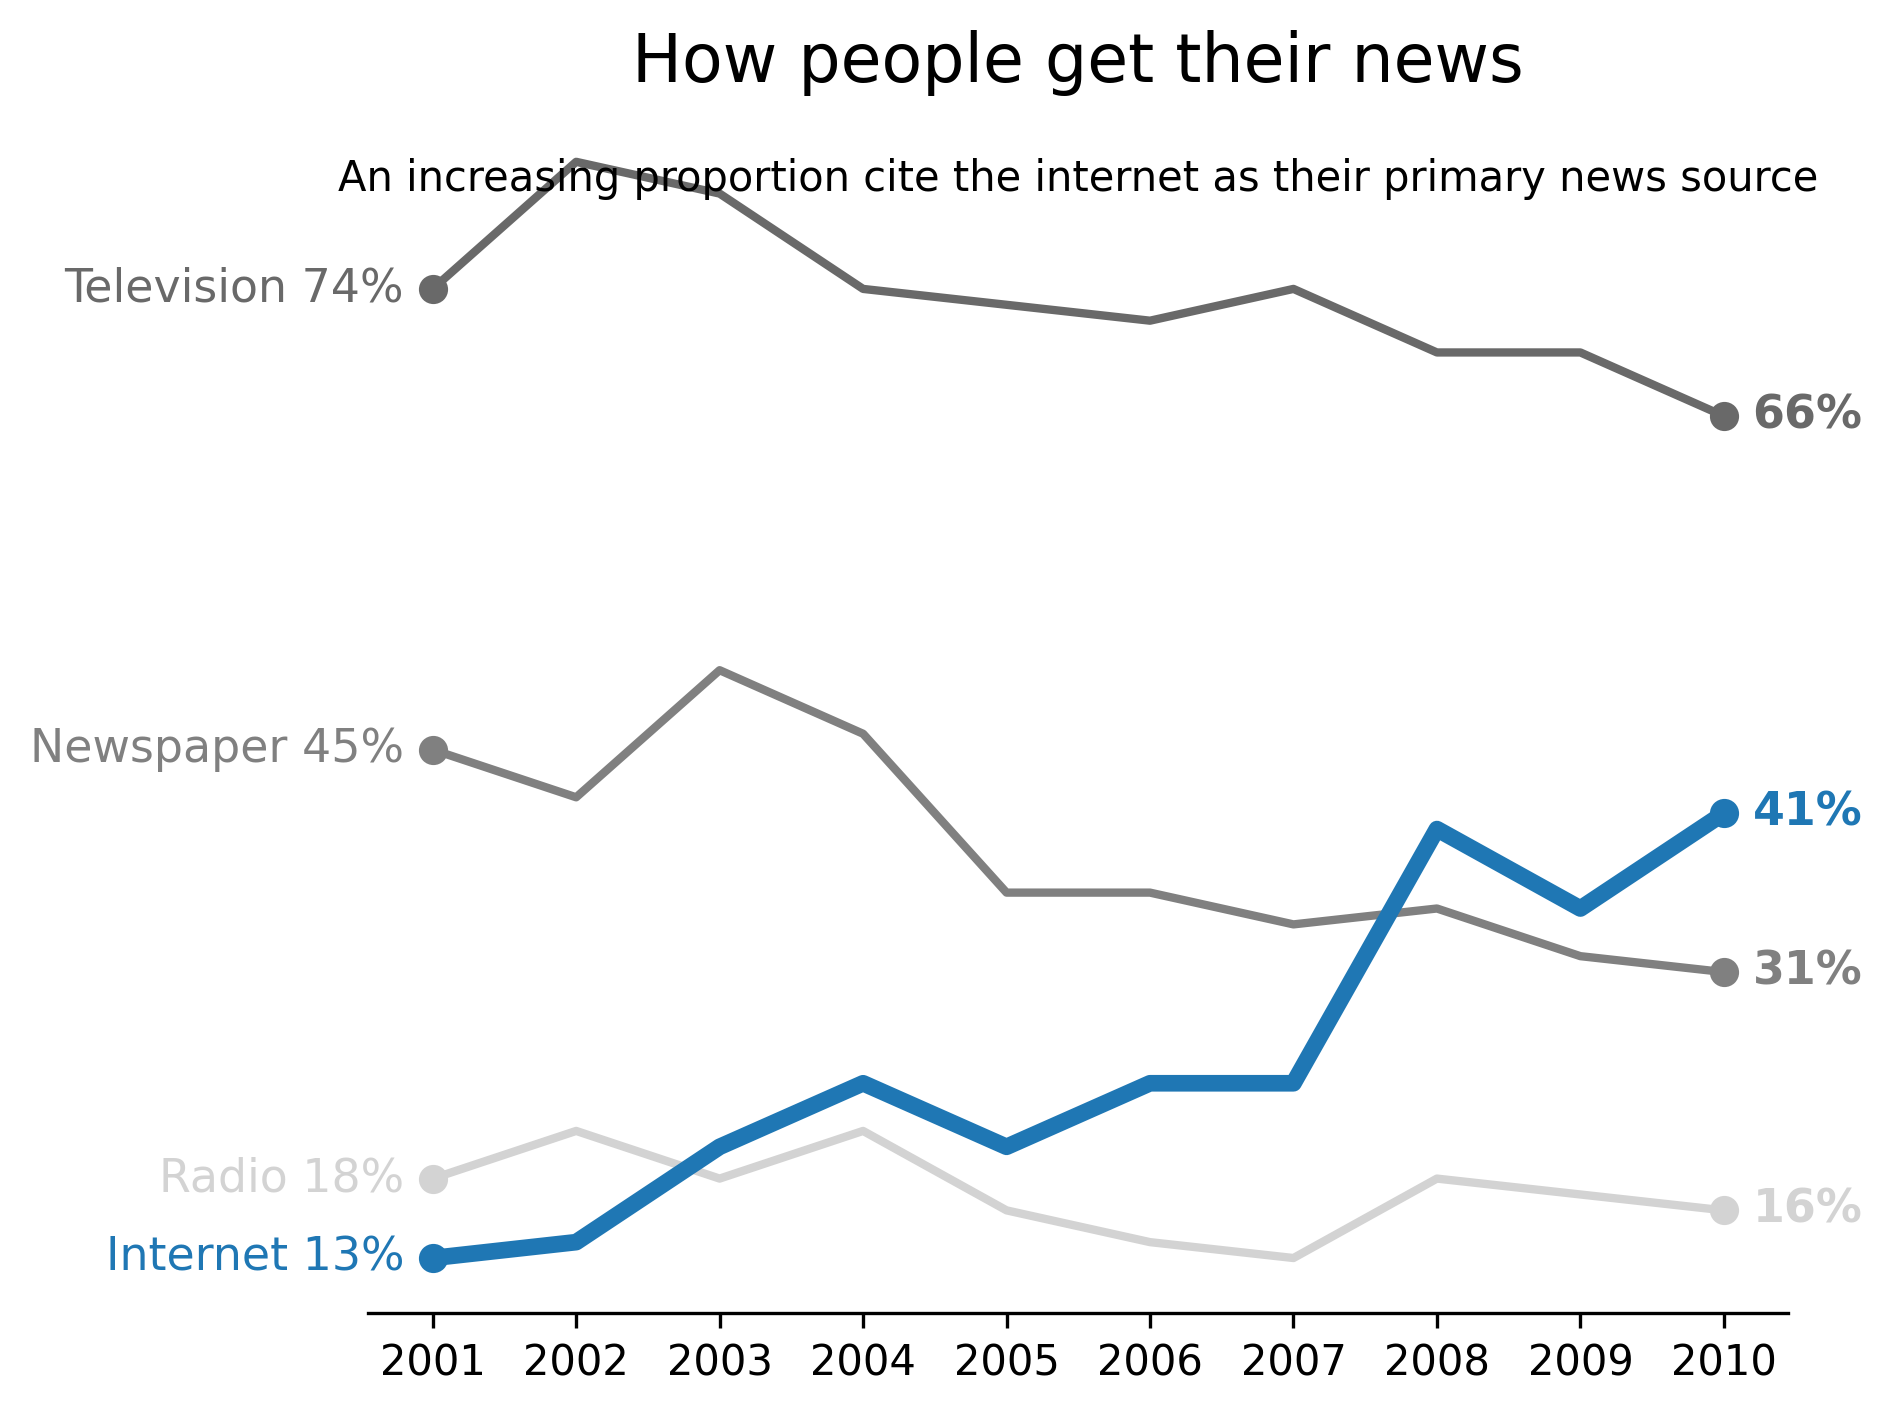
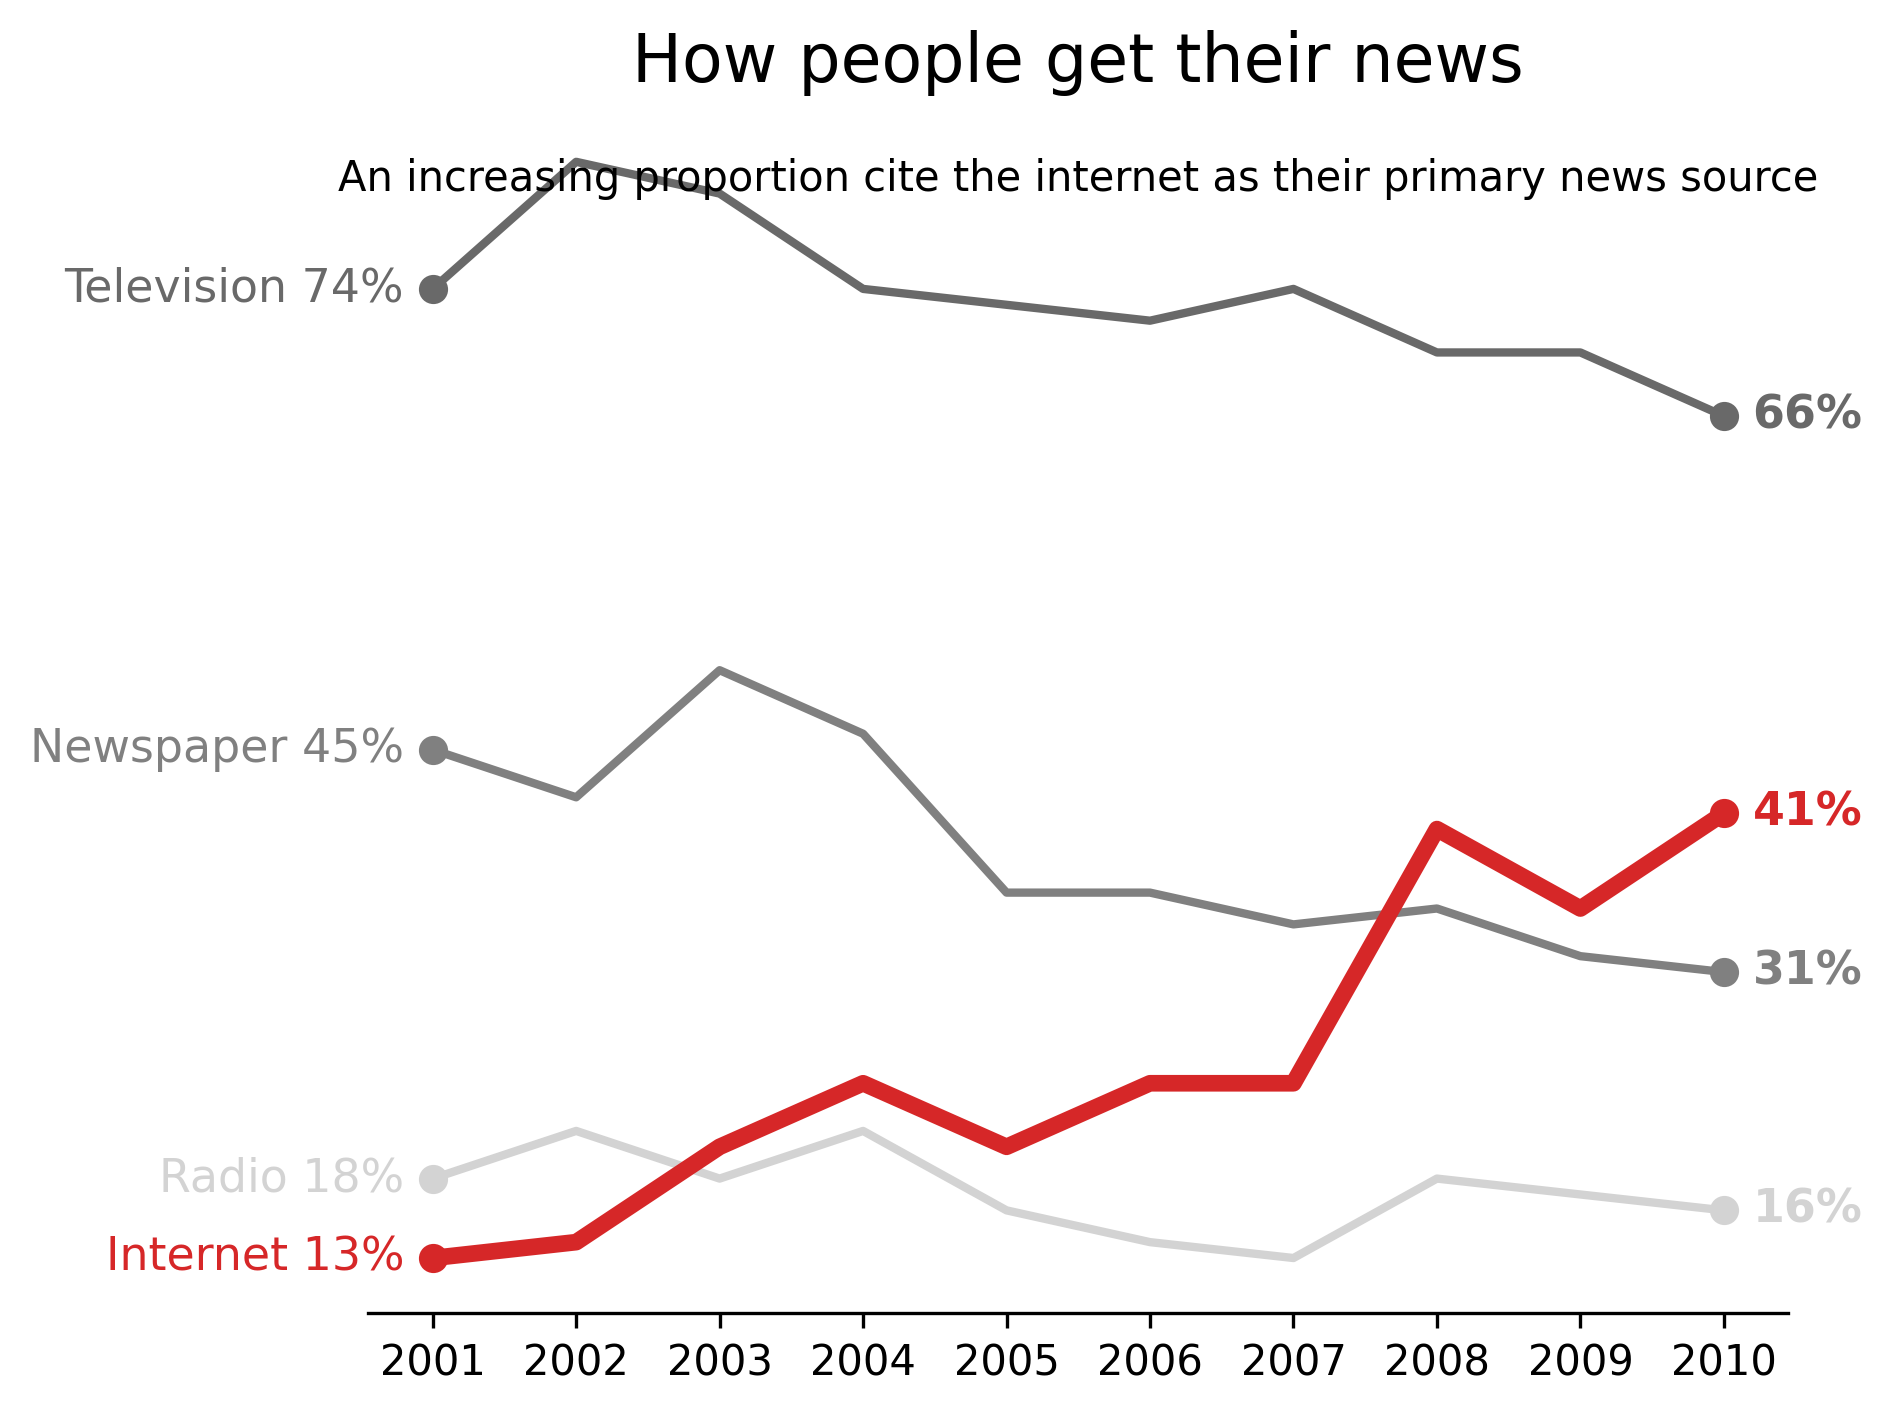
cambio de color

diff --git a/homework/pregunta_01.py b/homework/pregunta_01.py
@@ -30,7 +30,7 @@ def pregunta_01():
     colors = {
         "Television": "dimgray",
         "Newspaper": "grey", 
-        "Internet": "tab:blue",
+        "Internet": "tab:red",
         "Radio": "lightgrey",
     }
     
